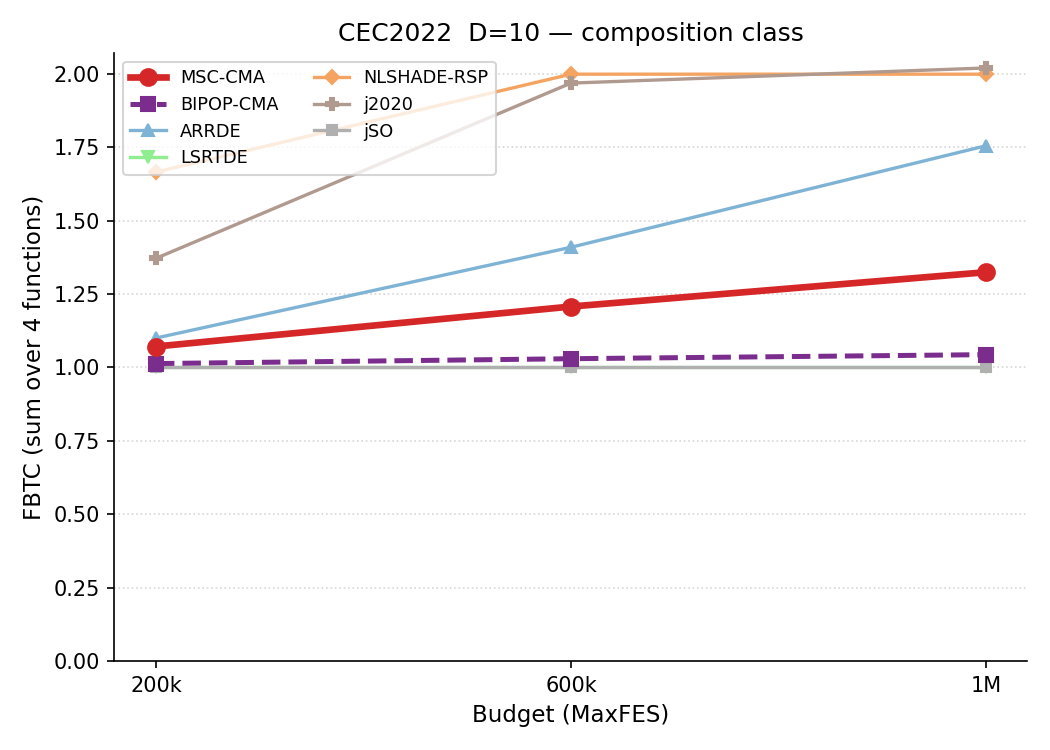
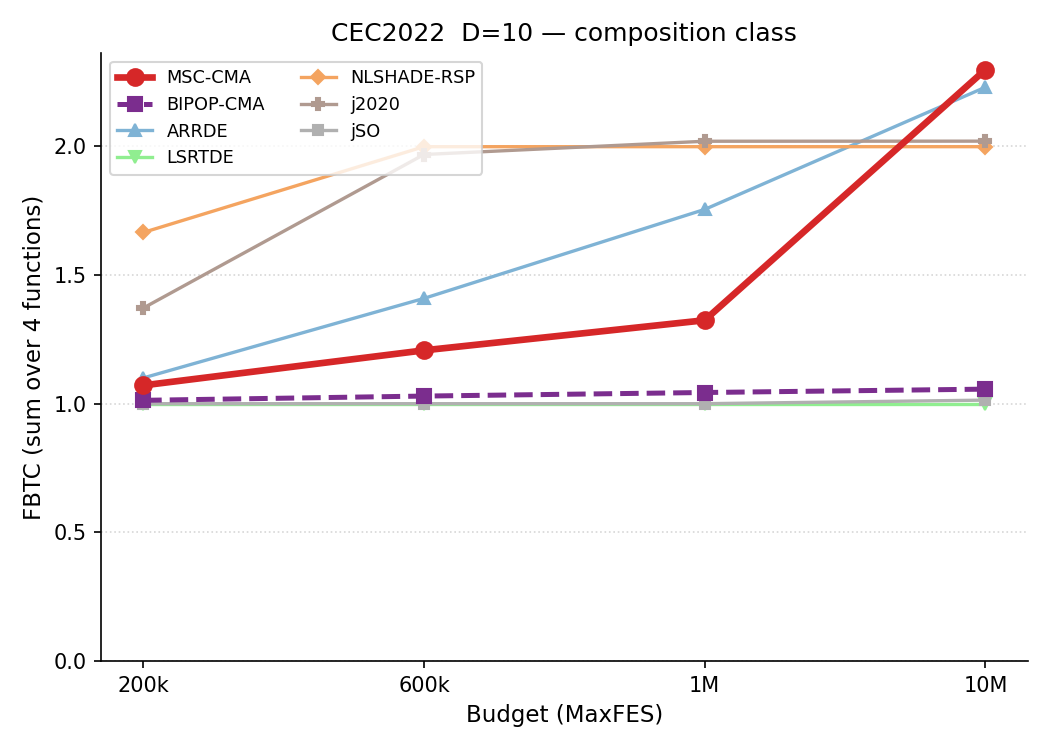
cec2022/d10: ranking (200k) + budget scaling (composition to 10M) + 1M ranking + 10M composition ranking

diff --git a/experiments/cec2022/d10/README.md b/experiments/cec2022/d10/README.md
@@ -2,7 +2,7 @@
 
 Sums of per-function metrics, grouped by function class. Budget: 200,000 evaluations. **Bold** = best in row.
 
-## Ranking across metrics
+## Ranking across metrics (budget 200K)
 
 Parallel-coordinate rank of all seven algorithms on four aggregate metrics (worst-SUM, median-SUM, FBTC, best-SUM), per function class. Each line is one algorithm; for every axis the best value is at the top. MSC-CMA in red.
 
@@ -34,6 +34,36 @@ FBTC by budget, monotone envelope (running maximum over budgets). Higher is bett
 <tr>
 <td align="center">Basic</td>
 <td align="center">Hybrid</td>
+<td align="center">Composition</td>
+</tr>
+</table>
+
+## Ranking across metrics (budget 1M)
+
+Same parallel-coordinate rank, recomputed at 1,000,000 evaluations. Only classes with full seven-algorithm coverage at 1M are shown. MSC-CMA in red.
+
+<table>
+<tr>
+<td><img src="rank_basic_1M.png" width="320" alt="Basic"></td>
+<td><img src="rank_hybrid_1M.png" width="320" alt="Hybrid"></td>
+<td><img src="rank_composition_1M.png" width="320" alt="Composition"></td>
+</tr>
+<tr>
+<td align="center">Basic</td>
+<td align="center">Hybrid</td>
+<td align="center">Composition</td>
+</tr>
+</table>
+
+## Ranking across metrics (budget 10M)
+
+Same parallel-coordinate rank, recomputed at 10,000,000 evaluations. Only classes with full seven-algorithm coverage at 10M are shown. MSC-CMA in red.
+
+<table>
+<tr>
+<td><img src="rank_composition_10M.png" width="320" alt="Composition"></td>
+</tr>
+<tr>
 <td align="center">Composition</td>
 </tr>
 </table>
@@ -73,4 +103,4 @@ FBTC by budget, monotone envelope (running maximum over budgets). Higher is bett
 Python 3.13.5 (anaconda3 env `intelpython`) · NumPy 2.3.1 · SciPy 1.15.3 · pycma 4.4.2 · minionpy 1.5.0.
 Hardware: Intel Xeon Platinum 8160 @ 2.10 GHz, 192 threads, 251 GiB RAM.
 
-*Generated 2026-06-28 by analysis/cell_report.py from `*/maxevals_200000/f*.pkl` (table) and all common budgets (budget scaling).*
+*Generated 2026-07-02 by analysis/cell_report.py from `*/maxevals_200000/f*.pkl` (table) and all common budgets (budget scaling).*